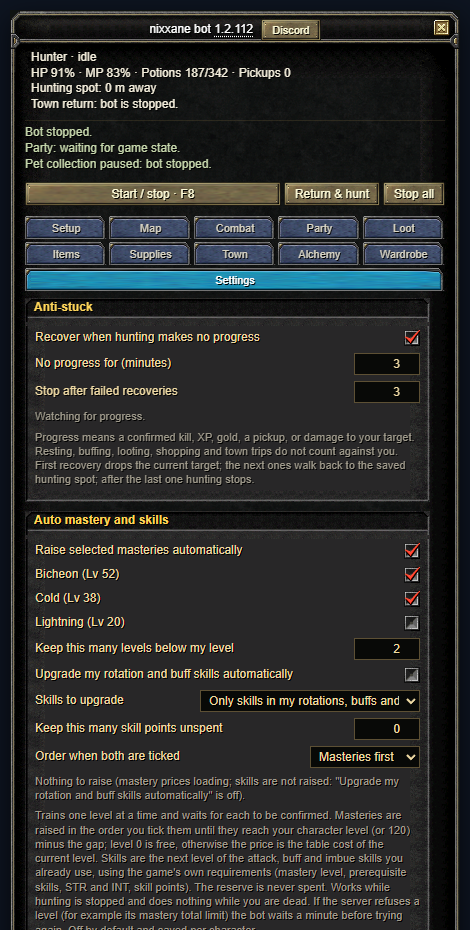
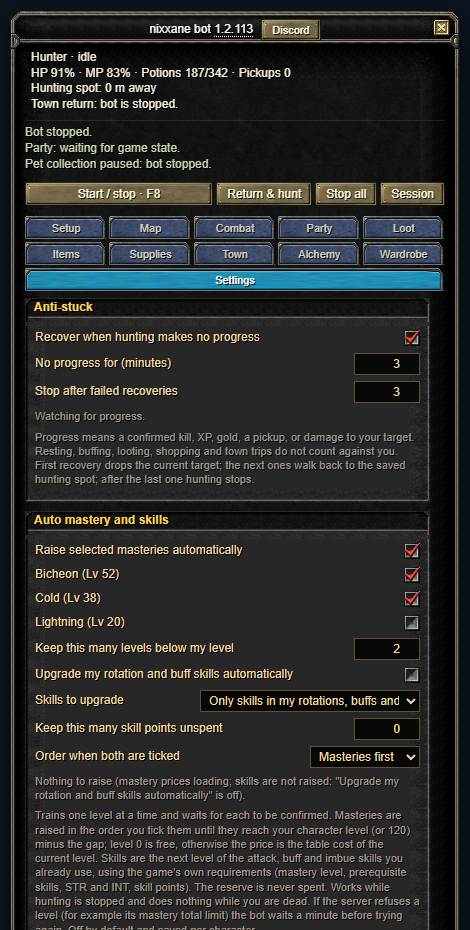
1.2.113 patch notes, activity log guide, refreshed screenshots

Changed region(s): [[0.4468, 0.1871, 0.9234, 0.2183], [0.1489, 0.1871, 0.3574, 0.2183], [0.3872, 0.1871, 0.417, 0.2183]]

diff --git a/index.html b/index.html
@@ -26,6 +26,17 @@
       <h2 id="patch-notes-title">Patch notes</h2>
       <p class="notes-intro">Install the latest script, then reload the game. Reporting-service fixes apply automatically.</p>
       <article class="release">
+        <h3><a href="https://github.com/nixxane/opensro-bot-lean/commit/213b412">1.2.113</a> · Detailed activity log, pop-out session window and return choices</h3>
+        <ul>
+          <li>Structured activity history, contributed by Joggio: categories, outcomes, session markers and grouped repeats, with filters, search, pause and follow, an optional bounded 10-minute command capture, and a local export with a preview. Names, free text and positions stay out of an export unless you tick raw, and nothing is uploaded.</li>
+          <li>Messages use monster names and plain language. Cast code 5 becomes one Skill not ready yet row with a count instead of repeated warnings. Select log text and press Ctrl+C to copy it.</li>
+          <li>A session window with live totals and the log opens from the Session button, or from Pop out under Settings, Recent activity. It never opens by itself, stays on screen when you minimise the bot, and closing it does not stop hunting.</li>
+          <li>The status lines, the feedback line under the buttons and the wide window's Activity box stay on the main panel.</li>
+          <li>Potion delay in milliseconds, saved per character, under Supplies.</li>
+          <li>Town revival can reverse to the last return-scroll point (the default) or to where you died. The death spot is only used when you died inside the hunting area, because hunting starts again only from inside it; a death further away reverses to the scroll point.</li>
+        </ul>
+      </article>
+      <article class="release">
         <h3><a href="https://github.com/nixxane/opensro-bot-lean/commit/31a7a80">1.2.112</a> · Follow a party member (auto trace)</h3>
         <ul>
           <li>New Follow a party member group on the Party page. Tick it, choose a member (or leave it on the party leader) and the bot stays within the distance you set of them while hunting, and hunts around them instead of around your saved hunting spot.</li>

diff --git a/guide.html b/guide.html
@@ -113,6 +113,8 @@
     <h3>Following a party member</h3>
     <p>On the <strong>Party</strong> page, tick <strong>Follow a party member while hunting</strong>, choose the member (the party leader by default) and how close to stay. The bot walks to them whenever they get farther away and hunts around them instead of around your saved spot, so it works like an auto trace. It does not follow into a dungeon or another area, and your saved hunting spot is used again as soon as following is off or the member is unavailable.</p>
     <img class="shot" src="guide/13b-follow.png" width="470" alt="Party page, Follow a party member: the switch, the member list, the distance and the fight option.">
+    <h3>Activity log and session window</h3>
+    <p>Under <strong>Settings → Recent activity</strong> the bot keeps a detailed history of what it did, with filters, search, pause and an export you can preview before saving (names and positions are left out unless you tick raw; nothing is uploaded). The <strong>Session</strong> button, or <strong>Pop out session totals and log</strong> in Settings, opens a floating window with your session totals and the same log. It stays on screen when you minimise the bot and closing it does not stop hunting.</p>
     <h3>Stat points</h3>
     <p>Under <strong>Settings → Stat points</strong>, tick <strong>Spend stat points automatically</strong> and the bot spends your unspent points on Strength and Intelligence as you level up, one confirmed point at a time. The two shares are a ratio: 1 and 0 is all Strength, 0 and 1 is all Intelligence, 2 and 1 is two Strength for every Intelligence. <strong>Keep this many points unspent</strong> holds some back. It is off by default.</p>
     <h3>Share and import settings</h3>
